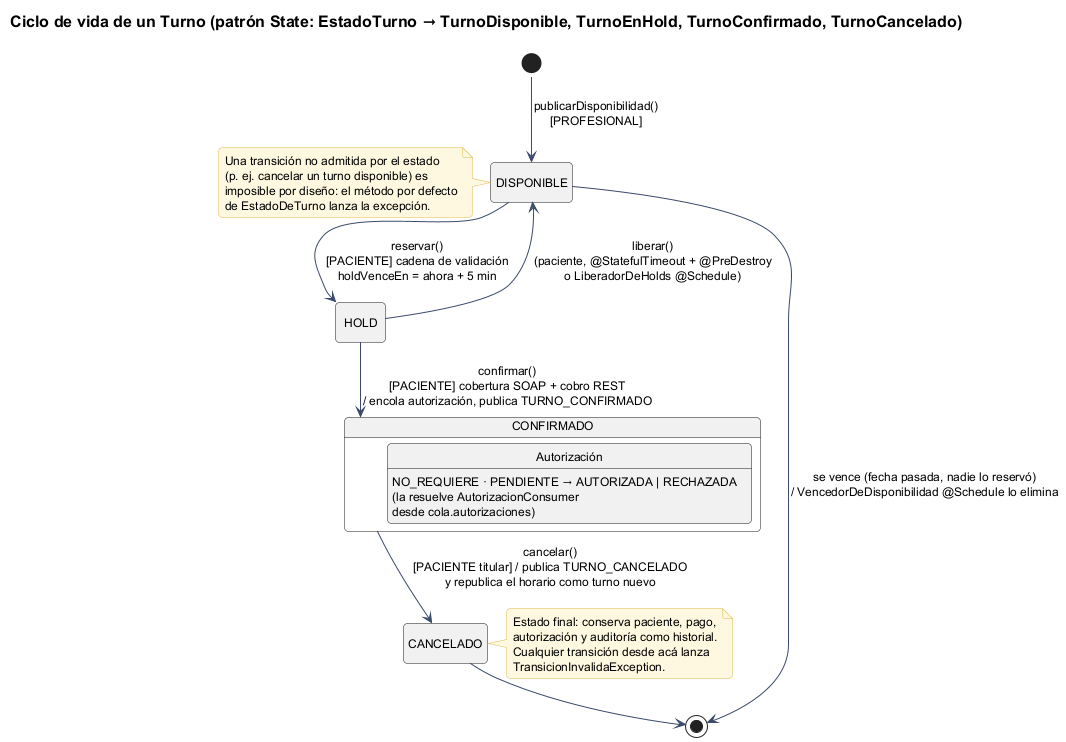
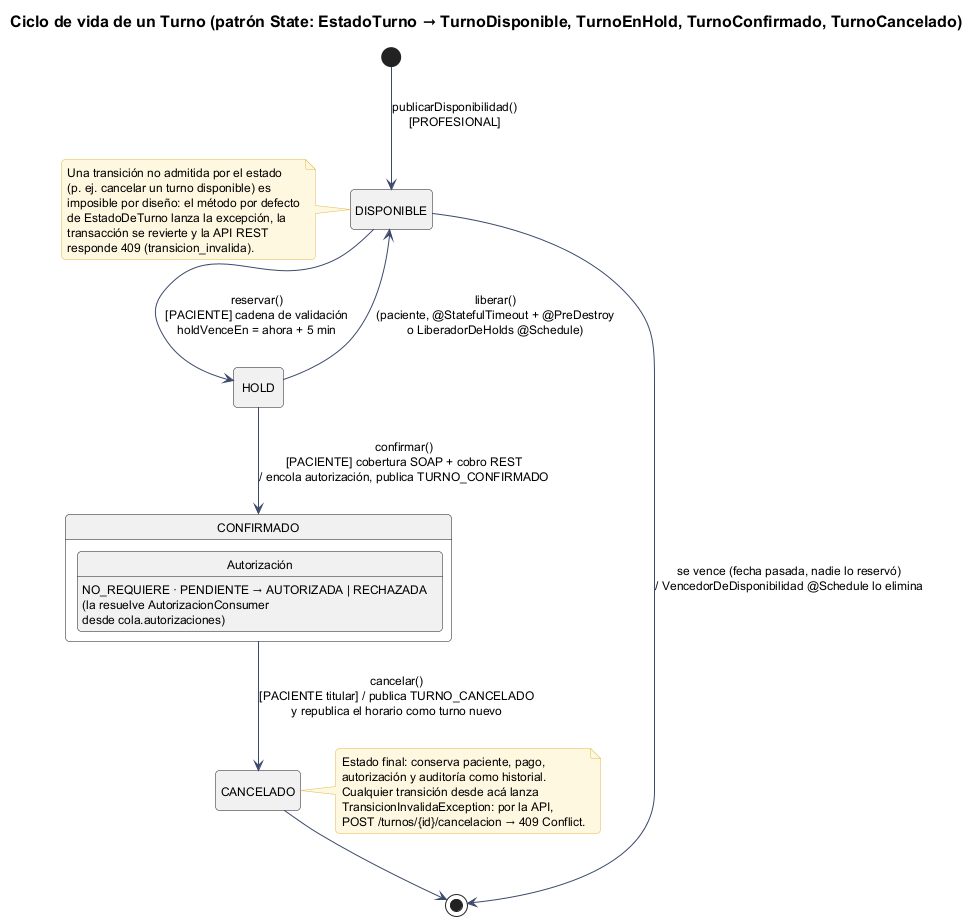
Agrega los diagramas de JWT y de la transición inválida y actualiza los de la API

diff --git a/docs/diagramas/README.md b/docs/diagramas/README.md
@@ -22,6 +22,11 @@ Fuente en PlantUML (`.puml`) y exportado a PNG. Todos reflejan el código **tal 
 | 16 | `16-secuencia-api-rest-telemedicina` | **Secuencias REST**: API propia (servidor) y videoconsulta (cliente) | Obligatoria 2 |
 | 17 | `17-clases-patrones-entrega4` | UML de clases de los patrones incorporados (Adapter, Circuit Breaker, Strategy, Chain, State, Intercepting Filter, Singleton, compensación) | Obligatoria 2 |
 | 18 | `18-clases-usuarios-y-roles` | UML de clases de los ajustes: Factory con el rol Administrativo, seguridad declarativa por operación, contraseña temporal, timers de vencimiento y administrador por defecto | **Nuevo: noviembre 2026** |
+| 19 | `19-secuencia-autenticacion-jwt` | **Secuencia de autenticación de la API con JWT**: login, pedido con Bearer y rechazos (401 y 403) | **Nuevo: entrega del 16/11** |
+| 20 | `20-secuencia-transicion-invalida-409` | **Secuencia del patrón State de punta a punta**: cancelación válida y transición inválida con 409 | **Nuevo: entrega del 16/11** |
+
+Los diagramas 01, 02, 06 y 16 se actualizaron para la entrega del 16/11 (JWT en la API y 409 ante una
+transición inválida).
 
 El diagrama 10 muestra todas las clases de las entregas anteriores en un solo dibujo, con la notación
 UML completa (leyenda incluida en el diagrama). El 17 complementa al 10 con los patrones de la
